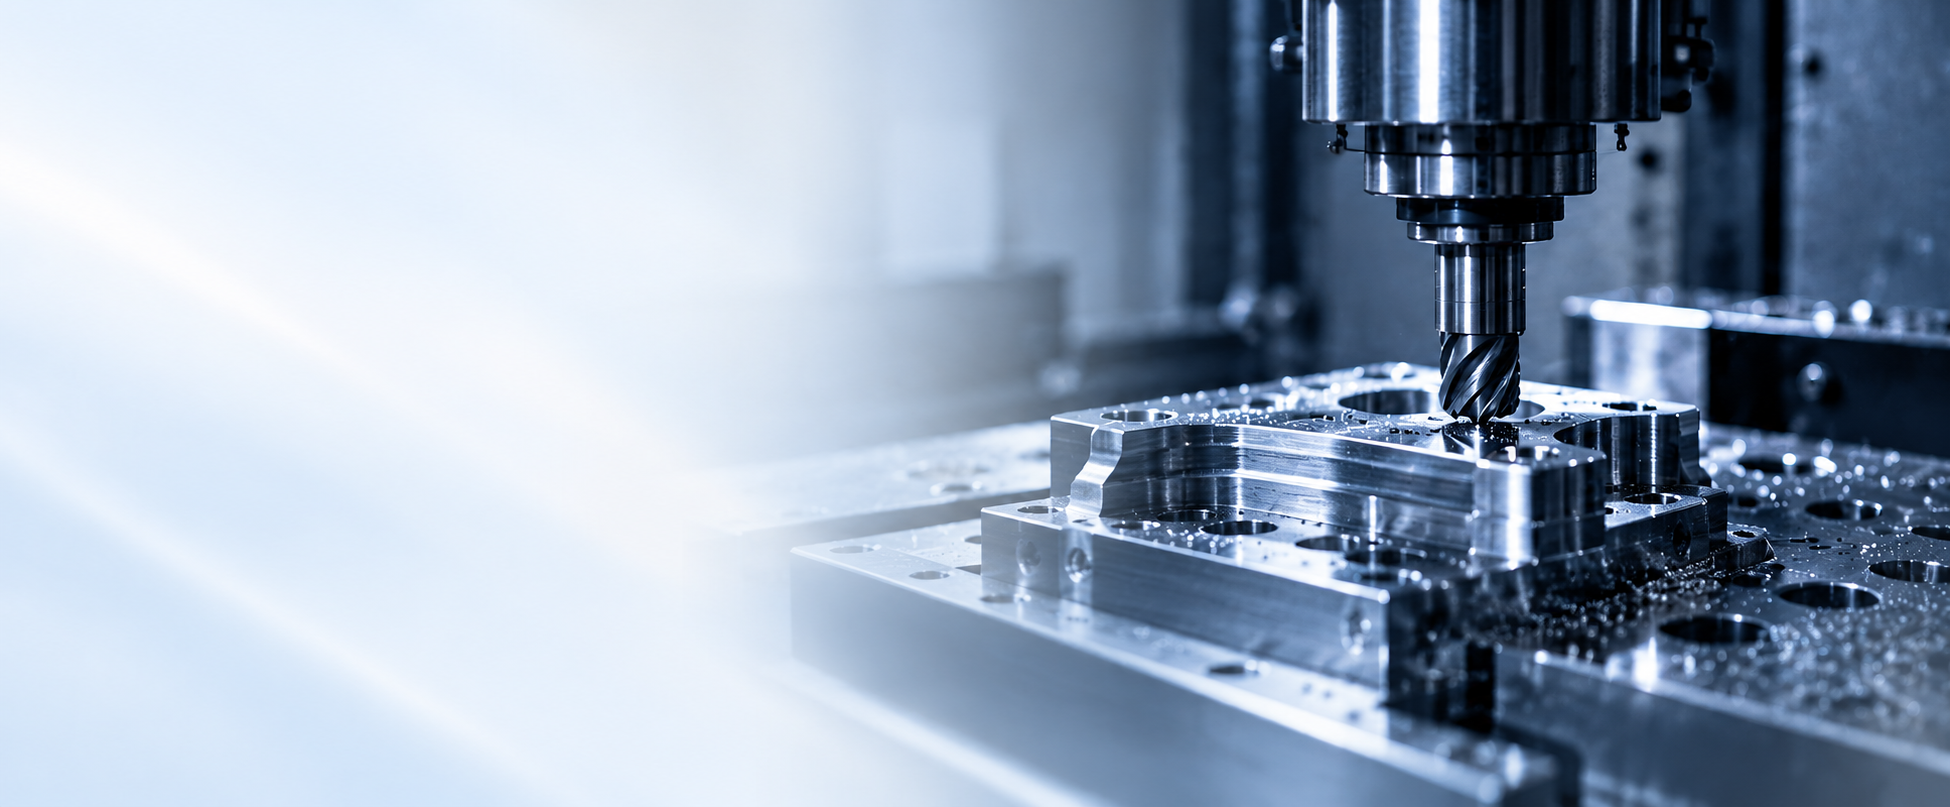
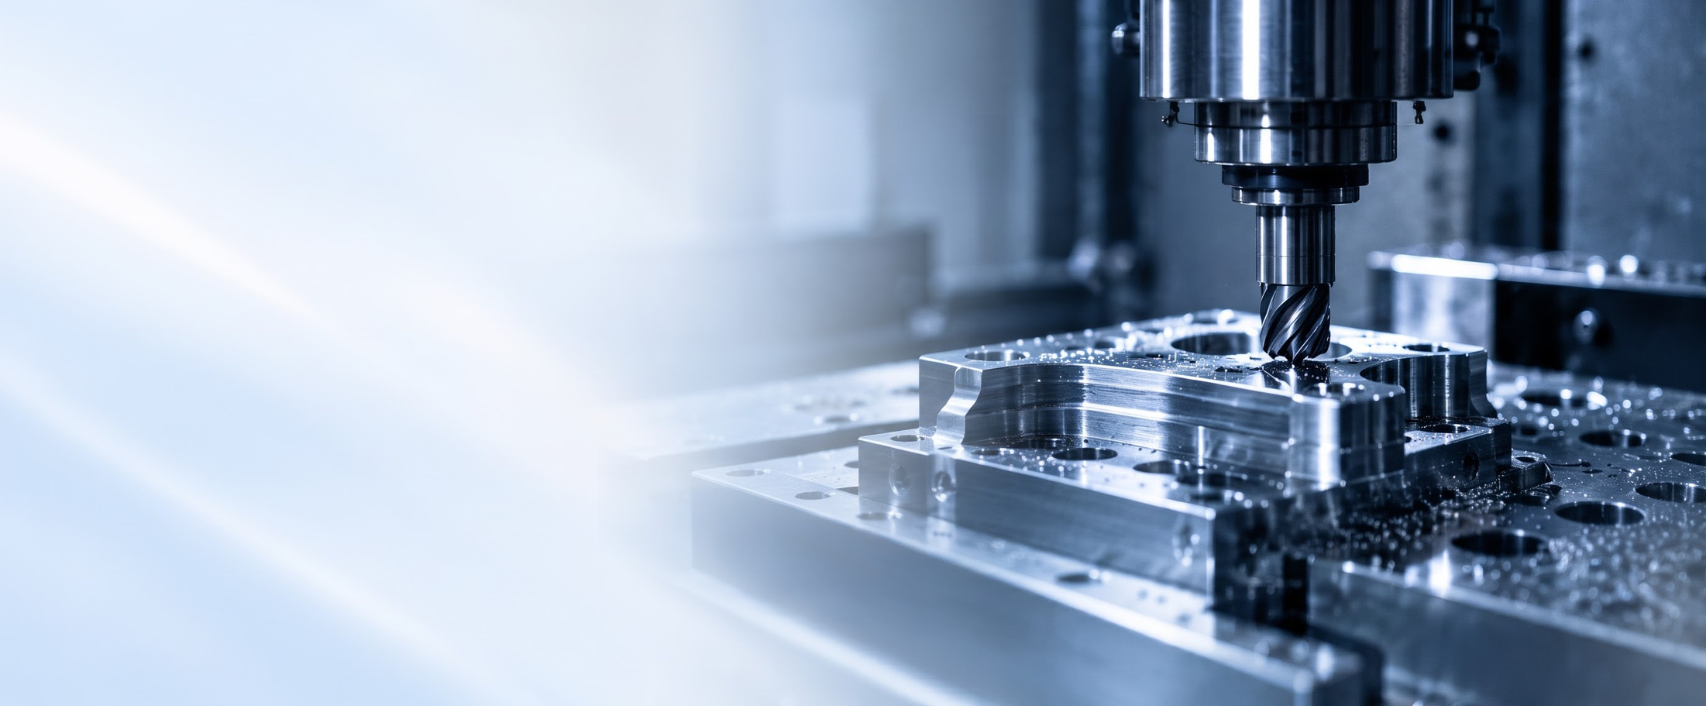
updated the final code

diff --git a/src/lib/site.ts b/src/lib/site.ts
@@ -30,8 +30,8 @@ export const site = {
   sectors: ["Space", "Defence", "Telecom", "Pharma"],
   values: ["Precision", "Quality", "Trust"],
   geo: {
-    latitude: 17.4819444,
-    longitude: 78.42625,
+    latitude: 17.481952667236328,
+    longitude: 78.42623901367188,
   },
 } as const;
 
@@ -46,7 +46,7 @@ export const heroStats = [
 ] as const;
 
 export const mapsUrl =
-  "https://www.google.com/maps/place//@17.4819453,78.4261348,21z/data=!4m6!1m5!3m4!2zMTfCsDI4JzU1LjAiTiA3OMKwMjUnMzQuNSJF!8m2!3d17.4819444!4d78.42625?hl=en&entry=ttu&g_ep=EgoyMDI2MTAyMC4wIKXMDSoASAFQAw%3D%3D";
+  "https://www.google.com/maps?q=17.481952667236328,78.42623901367188&z=17&hl=en";
 
 export const navigation = [
   { href: "/", label: "Home" },
